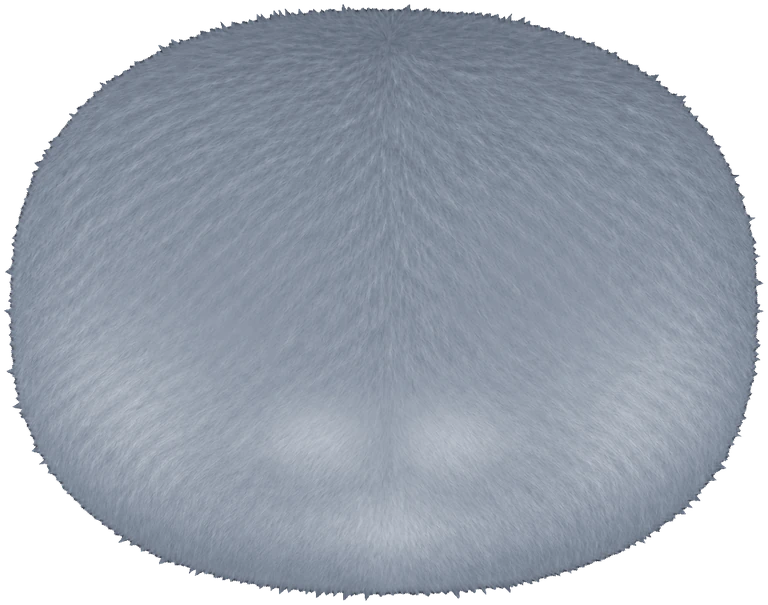
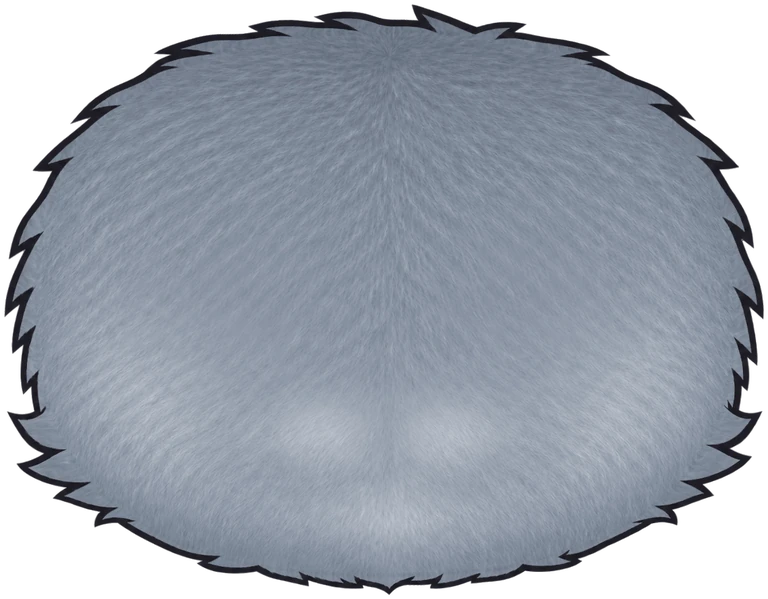
英短蓝头部换上和橘猫同一套手绘毛簇描边
前几版毛边是光滑渐变或程序生成的尖齿，看着发虚或像锯片。v8 把橘猫头图的外形和
描边按极坐标形变套到英短蓝的宽椭圆上，脸内保留银蓝灰毛流；后脑同样处理。
头图变大，按新的 alpha 范围更新正面、背影的位置和宽度。

Changed region(s): [[0.0, 0.0, 1.0, 0.9917]]

diff --git a/prototype/coats.js b/prototype/coats.js
@@ -151,7 +151,7 @@
         <path class="coat-calico-dark" d="M 520 280 C 492 262 460 268 448 294 C 439 310 450 330 461 344 C 473 359 455 380 476 396 C 494 409 520 397 533 381 Z"/>`,
     },
     { id: 'blue', name: '英短蓝猫', art: art('blue', {
-      head: { cx: 400.1, cy: 181.3, width: 275.3 }, backHead: { cx: 399.8, cy: 180.9, width: 274.5 },
+      head: { cx: 399.6, cy: 179.6, width: 291.3 }, backHead: { cx: 399.9, cy: 178.9, width: 293.8 },
       ear: { x: 276.3, y: 62.3, width: 75.5 }, // 小圆耳，分得开、长得低
       arm: { width: 62, maskBody: true }, paw: { width: 72 }, tail: { scale: 1.25 },
       headPath: 'M 534.0 182.0 L 534.0 189.2 L 533.9 195.0 L 533.5 200.4 L 533.0 205.4 L 532.2 210.3 L 531.3 214.9 L 530.1 219.4 L 528.7 223.7 L 527.0 227.9 L 525.2 232.0 L 523.1 235.9 L 520.9 239.7 L 518.4 243.3 L 515.7 246.8 L 512.8 250.2 L 509.6 253.4 L 506.3 256.5 L 502.7 259.4 L 499.0 262.2 L 495.0 264.9 L 490.8 267.4 L 486.4 269.8 L 481.9 272.0 L 477.1 274.0 L 472.1 275.9 L 466.9 277.6 L 461.6 279.2 L 456.0 280.6 L 450.2 281.9 L 444.2 283.0 L 438.0 283.9 L 431.5 284.7 L 424.7 285.2 L 417.5 285.7 L 409.7 285.9 L 400.0 286.0 L 390.3 285.9 L 382.5 285.7 L 375.3 285.2 L 368.5 284.7 L 362.0 283.9 L 355.8 283.0 L 349.8 281.9 L 344.0 280.6 L 338.4 279.2 L 333.1 277.6 L 327.9 275.9 L 322.9 274.0 L 318.1 272.0 L 313.6 269.8 L 309.2 267.4 L 305.0 264.9 L 301.0 262.2 L 297.3 259.4 L 293.7 256.5 L 290.4 253.4 L 287.2 250.2 L 284.3 246.8 L 281.6 243.3 L 279.1 239.7 L 276.9 235.9 L 274.8 232.0 L 273.0 227.9 L 271.3 223.7 L 269.9 219.4 L 268.7 214.9 L 267.8 210.3 L 267.0 205.4 L 266.5 200.4 L 266.1 195.0 L 266.0 189.2 L 266.0 182.0 L 266.1 174.6 L 266.4 168.7 L 267.0 163.3 L 267.7 158.1 L 268.7 153.2 L 269.9 148.4 L 271.3 143.9 L 272.9 139.5 L 274.7 135.2 L 276.8 131.1 L 279.0 127.1 L 281.4 123.2 L 284.1 119.5 L 286.9 116.0 L 290.0 112.5 L 293.2 109.2 L 296.6 106.1 L 300.2 103.1 L 304.0 100.2 L 308.0 97.5 L 312.2 95.0 L 316.5 92.6 L 321.0 90.3 L 325.7 88.2 L 330.6 86.3 L 335.6 84.5 L 340.8 82.9 L 346.2 81.5 L 351.8 80.2 L 357.6 79.1 L 363.6 78.1 L 369.8 77.4 L 376.3 76.8 L 383.2 76.3 L 390.7 76.1 L 400.0 76.0 L 409.3 76.1 L 416.8 76.3 L 423.7 76.8 L 430.2 77.4 L 436.4 78.1 L 442.4 79.1 L 448.2 80.2 L 453.8 81.5 L 459.2 82.9 L 464.4 84.5 L 469.4 86.3 L 474.3 88.2 L 479.0 90.3 L 483.5 92.6 L 487.8 95.0 L 492.0 97.5 L 496.0 100.2 L 499.8 103.1 L 503.4 106.1 L 506.8 109.2 L 510.0 112.5 L 513.1 116.0 L 515.9 119.5 L 518.6 123.2 L 521.0 127.1 L 523.2 131.1 L 525.3 135.2 L 527.1 139.5 L 528.7 143.9 L 530.1 148.4 L 531.3 153.2 L 532.3 158.1 L 533.0 163.3 L 533.6 168.7 L 533.9 174.6 Z',

diff --git a/prototype/art/blue/manifest.js b/prototype/art/blue/manifest.js
@@ -1,1 +1,1 @@
-SillyArt.register("blue", {"head": [768, 605], "ear": [302, 302], "body": [755, 768], "arm-l": [200, 768], "arm-r": [200, 768], "paw-l": [768, 534], "paw-r": [768, 534], "tail": [125, 768], "back-head": [768, 608], "ear-back": [302, 302], "back-body": [752, 768]});
+SillyArt.register("blue", {"head": [768, 599], "ear": [302, 302], "body": [755, 768], "arm-l": [200, 768], "arm-r": [200, 768], "paw-l": [768, 534], "paw-r": [768, 534], "tail": [125, 768], "back-head": [768, 594], "ear-back": [302, 302], "back-body": [752, 768]});

diff --git a/tools/prepare_art.py b/tools/prepare_art.py
@@ -22,7 +22,7 @@ PORTRAITS = {
     "cow": {}, "lihua": {}, "black": {}, "white": {},
     "calico": {"head": (400, 173.1, 266)},
     "orange": {"headSX": 1.08},
-    "blue": {"head": (400.1, 181.3, 275.3), "ear": (276.3, 62.3, 75.5, 0)},
+    "blue": {"head": (399.6, 179.6, 291.3), "ear": (276.3, 62.3, 75.5, 0)},
     "siamese": {"head": (400.1, 168.9, 241.3), "ear": (272, 22, 110, 12)},
     "maine": {"head": (400.4, 178.1, 322.3), "ear": (278, 14, 110, 0), "ear_scale": 1.15},
     "sphynx": {"head": (400.1, 169.1, 255.3), "ear": (268, 34, 110, 16), "ear_scale": 1.18},
